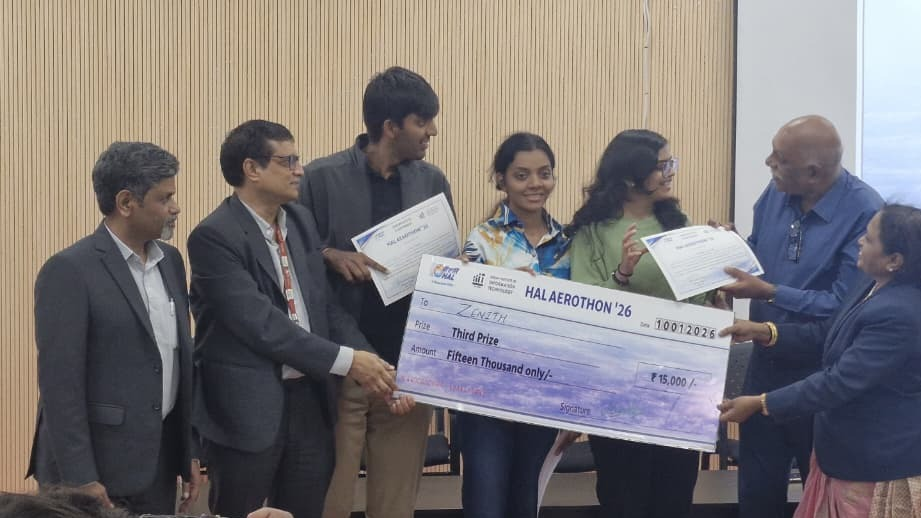
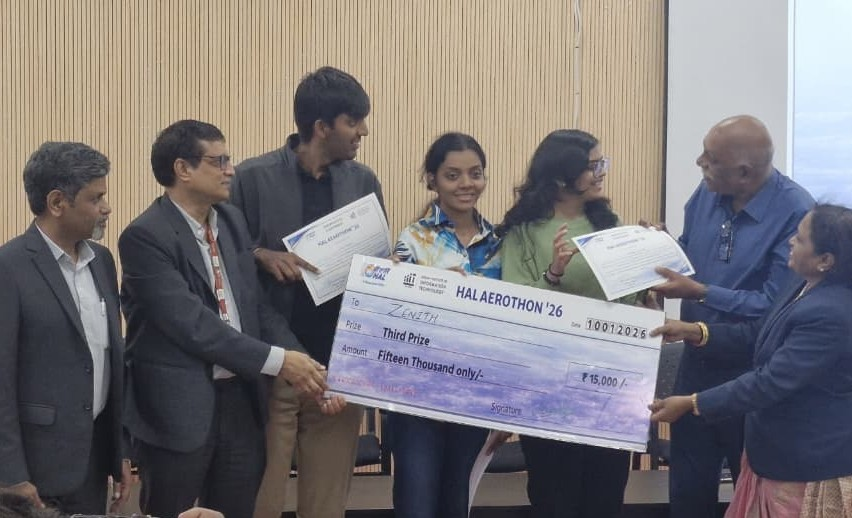
Use the recropped ceremony photo, and plain hyphens throughout the README
Point the README at docs/images/getting.jpeg, which is cropped tighter on the
handover: the cheque reads clearly and the distracting bottom edge is gone.
win-ceremony.jpg stays in the repo as a source image but is no longer used.

Replace every em and en dash with a plain hyphen - 29 em dashes and 3 en
dashes. Spaced forms became " - " so the prose does not run together, and
ranges like "9-10 January" now use a hyphen. Verified zero remaining.

diff --git a/README.md b/README.md
@@ -4,15 +4,15 @@
 
 **From Manual Inspection to AI Inspector**
 
-Computer-vision inspection for aircraft surfaces — measure a part in millimetres
+Computer-vision inspection for aircraft surfaces - measure a part in millimetres
 from a single camera, and find damage on it.
 
-🥉 **Third Prize — HAL AEROTHON '26**
+🥉 **Third Prize - HAL AEROTHON '26**
 National-Level Aerospace Innovation Hackathon
-Hindustan Aeronautics Limited × IIIT Dharwad · 9–10 January 2026
+Hindustan Aeronautics Limited × IIIT Dharwad · 9-10 January 2026
 
 <img src="docs/images/win-team.jpg" alt="Team Zenith with the Third Prize cheque at IIIT Dharwad" width="330">
-<img src="docs/images/win-ceremony.jpg" alt="Third Prize being presented at HAL AEROTHON '26" width="430">
+<img src="docs/images/getting.jpeg" alt="Third Prize being presented at HAL AEROTHON '26" width="430">
 
 </div>
 
@@ -20,7 +20,7 @@ Hindustan Aeronautics Limited × IIIT Dharwad · 9–10 January 2026
 
 ## What this is
 
-Point a camera at an aircraft panel with a **printed ArUco marker** beside it —
+Point a camera at an aircraft panel with a **printed ArUco marker** beside it -
 a square black-and-white pattern, like a QR code, whose real-world size you
 already know. In the frame below the marker is 47 mm wide and occupies about
 172 pixels, so the software derives a scale of 0.2672 millimetres per pixel and
@@ -30,9 +30,9 @@ On top of that scale sit two independent damage detectors, which answer
 different questions:
 
 - A **supervised** detector, trained on labelled aircraft damage, that names
-  what it finds — crack, dent, missing head, paint-off, scratch.
+  what it finds - crack, dent, missing head, paint-off, scratch.
 - An **unsupervised** autoencoder, trained only on undamaged skin, that flags
-  anything unlike normal surface — including damage nobody ever labelled.
+  anything unlike normal surface - including damage nobody ever labelled.
 
 Built in 24 hours at HAL AEROTHON '26 by Team Zenith, and developed since.
 
@@ -41,7 +41,7 @@ Built in 24 hours at HAL AEROTHON '26 by Team Zenith, and developed since.
 *The live application, uncropped. The printed ArUco marker sets the scale at
 0.2672 mm/px against a 47 mm reference, the gear is measured at 51.1 x 32.4 mm
 without contact, and the damage detector overlays its findings on the same
-frame. Detector class indices are shown raw here — see [Results](#results) for
+frame. Detector class indices are shown raw here - see [Results](#results) for
 why those labels are not yet trustworthy.*
 
 ---
@@ -55,12 +55,12 @@ with the commands in [Running](#running).
 |---|---|---|
 | ArUco calibration (px → mm) | **Working** | 0.14% error against a synthetic ground-truth marker |
 | Standalone measurement app | **Working** | Real-time overlay; needs a webcam and a printed marker |
-| Faster R-CNN damage detector | **Working** | Real trained weights; localises well, class labels are unreliable — see [Results](#results) |
+| Faster R-CNN damage detector | **Working** | Real trained weights; localises well, class labels are unreliable - see [Results](#results) |
 | Anomaly autoencoder + heatmap | **Working** | Unsupervised; defect regions score 1.7× clean skin |
-| Integrated pipeline | **Working** | ~1.8–2.0 s per 640×640 frame, CPU-only |
+| Integrated pipeline | **Working** | ~1.8-2.0 s per 640×640 frame, CPU-only |
 | HTTP API | **Working** | 5 endpoints, `backend/app.py` |
 | Dimension measurement | **Working** | Polarity-aware thresholding: 0.3% / 0.6% error on both dark-on-light and bright-on-dark |
-| BLIP captioning | **Working** | Needs ~2 GB free RAM; skips itself cleanly below that. Captions are generic — the model is not fine-tuned on damage |
+| BLIP captioning | **Working** | Needs ~2 GB free RAM; skips itself cleanly below that. Captions are generic - the model is not fine-tuned on damage |
 | VGG16 classifier | **Legacy, off by default** | No trained Keras checkpoint exists anywhere in the project |
 | YOLOv8 | **Off by default** | Ships stock COCO weights, which have no damage classes |
 
@@ -104,10 +104,10 @@ are approximate until you substitute a real calibration for your camera.
 ### Supervised detector
 
 Faster R-CNN ResNet50-FPN, 8-class head, trained for 23 epochs on two
-concatenated Roboflow exports — 5,672 images, 6,219 boxes.
+concatenated Roboflow exports - 5,672 images, 6,219 boxes.
 
 **Read this before trusting its labels.** The checkpoint records `f1 = 0.642`,
-but that figure was computed *class-agnostically* — the training script matched
+but that figure was computed *class-agnostically* - the training script matched
 boxes by IoU and never compared predicted labels to ground-truth labels.
 Re-running that same evaluation code against the saved weights does not
 reproduce it. Two further issues are real and worth stating:
@@ -115,8 +115,8 @@ reproduce it. Two further issues are real and worth stating:
 - **Class 1 is a collision.** The two source datasets were concatenated without
   remapping category IDs, so class 1 mixes one dataset's generic "defect" with
   the other's "crack". It is reported as `crack_or_defect` for that reason.
-- **Classes 6 and 7 were never trained** — no annotation in either dataset
-  carries those IDs — yet they still fire, sometimes above 0.9 confidence. They
+- **Classes 6 and 7 were never trained** - no annotation in either dataset
+  carries those IDs - yet they still fire, sometimes above 0.9 confidence. They
   are labelled `untrained_6` / `untrained_7` and flagged in the output.
 
 In practice it is a strong *region proposer* on aircraft skin and a weak
@@ -126,14 +126,14 @@ In practice it is a strong *region proposer* on aircraft skin and a weak
 `backend/training/train_detector.py` maps every dataset into one shared 7-class
 space so the generic "defect" stays separate from "crack", sizes the head from
 that space so no class goes untrained, scores class-aware metrics, and saves
-`class_names` into the checkpoint. Verified against the real annotations —
+`class_names` into the checkpoint. Verified against the real annotations -
 defect 1448, crack 996, dent 1346, missing-head 990, paint-off 789,
 scratch 222, no collision. Only the training run remains, and it needs a GPU;
 until then the checkpoint above is what ships.
 
 ### Unsupervised anomaly detection
 
-No dataset here has a "healthy" class — every image is of damage. So clean
+No dataset here has a "healthy" class - every image is of damage. So clean
 training data is **harvested**: defect boxes cover only ~8.4% of each labelled
 image, and the training script keeps only patches overlapping no defect box
 (plus a 16 px safety margin, because labels are drawn tight and cracks run past
@@ -153,7 +153,7 @@ against.
 
 ![Anomaly heatmap: input, reconstruction-error heatmap, and detected regions](docs/images/anomaly-heatmap.png)
 
-*Left: input. Middle: per-pixel reconstruction error — the crack is the hot red
+*Left: input. Middle: per-pixel reconstruction error - the crack is the hot red
 line. Right: green is the human label, magenta is what the autoencoder found
 without ever being shown a defect.*
 
@@ -163,7 +163,7 @@ localiser.
 
 ### Throughput
 
-~1.8–2.0 s per 640×640 frame (≈0.5 FPS) with detection and dimensioning
+~1.8-2.0 s per 640×640 frame (≈0.5 FPS) with detection and dimensioning
 enabled, on a CPU-only laptop. There is no GPU measurement in this repository.
 
 ---
@@ -181,7 +181,7 @@ venv\Scripts\activate           # Windows
 pip install -r requirements.txt
 ```
 
-`opencv-contrib-python` is required — `cv2.aruco` is not in the base
+`opencv-contrib-python` is required - `cv2.aruco` is not in the base
 `opencv-python` package.
 
 ### Windows console encoding
@@ -191,7 +191,7 @@ set PYTHONIOENCODING=utf-8      # without it, console output can die on encoding
 ```
 
 Optionally, `set INSPECT_AR_NO_BLIP=1` skips captioning entirely. It is not
-required — BLIP checks available memory and stands itself down when there is
+required - BLIP checks available memory and stands itself down when there is
 too little, rather than crashing.
 
 ### Model weights
@@ -270,7 +270,7 @@ curl -F "file=@panel.jpg" -F "heatmap=1" http://127.0.0.1:5000/api/anomaly
 ```
 
 The server binds to loopback only. Set `INSPECT_AR_HOST=0.0.0.0` to expose it,
-and do not combine that with `INSPECT_AR_DEBUG=1` — the Werkzeug debugger
+and do not combine that with `INSPECT_AR_DEBUG=1` - the Werkzeug debugger
 executes arbitrary code from the browser.
 
 ### Training the autoencoder
@@ -308,23 +308,23 @@ line references in [docs/KNOWN_ISSUES.md](docs/KNOWN_ISSUES.md).
       shipped checkpoint (the collision fix and class-aware metric are written
       and tested; only the training run remains)
 - [ ] Fine-tune BLIP on damage descriptions so captions are about the defect
-- [ ] OCR for part traceability — read serial numbers and stencilled IDs so
+- [ ] OCR for part traceability - read serial numbers and stencilled IDs so
       every detection is logged against the component it belongs to
 - [ ] UAV-mounted capture
-- [ ] Explore non-destructive testing modalities for subsurface inspection —
+- [ ] Explore non-destructive testing modalities for subsurface inspection -
       ultrasonic, eddy-current, thermography, borescope
 
 ---
 
 ## Team
 
-**Team Zenith** — KJ Somaiya College of Engineering
+**Team Zenith** - KJ Somaiya College of Engineering
 
 | Member | GitHub |
 |---|---|
 | Yashasvi Gupta | [@Yashvi2874](https://github.com/Yashvi2874) |
 | Aastha Shah | [@aasthans-2508](https://github.com/aasthans-2508) |
-| Sai Parcha | — |
+| Sai Parcha | - |
 
 Mentors: **Dr. Shailesh Nikam** and **Mr. Kaustubh Kulkarni**, for guidance on
 system architecture, backend structuring, ArUco integration and model
@@ -336,15 +336,15 @@ Thanks to **HAL** and **IIIT Dharwad** for the platform.
 
 ## Acknowledgements
 
-- **YOLOv8** — [Ultralytics](https://github.com/ultralytics/ultralytics).
+- **YOLOv8** - [Ultralytics](https://github.com/ultralytics/ultralytics).
   Licensed **AGPL-3.0**, which is more restrictive than this project's MIT
   licence; if you redistribute a work that imports it, that licence governs.
-- **Faster R-CNN, ResNet50-FPN** — [torchvision](https://github.com/pytorch/vision)
-- **BLIP** — [Salesforce Research](https://github.com/salesforce/BLIP)
-- **ArUco** — [OpenCV](https://docs.opencv.org/)
-- **Damage datasets** — Roboflow Universe aircraft-skin-defect exports,
+- **Faster R-CNN, ResNet50-FPN** - [torchvision](https://github.com/pytorch/vision)
+- **BLIP** - [Salesforce Research](https://github.com/salesforce/BLIP)
+- **ArUco** - [OpenCV](https://docs.opencv.org/)
+- **Damage datasets** - Roboflow Universe aircraft-skin-defect exports,
   published under **CC BY 4.0**, which requires attribution.
-- **Training notebooks** — the VGG16 and BLIP notebooks this project's early
+- **Training notebooks** - the VGG16 and BLIP notebooks this project's early
   wrappers were derived from originate as **IBM Skills Network** guided-lab
   material, obtained via
   [asitdave/Aircraft-Defect-Detection-and-Automated-Image-Captioning](https://github.com/asitdave/Aircraft-Defect-Detection-and-Automated-Image-Captioning).
@@ -356,7 +356,7 @@ Thanks to **HAL** and **IIIT Dharwad** for the platform.
 
 ## License
 
-**MIT** — see [LICENSE](LICENSE). This covers the original code of this project
+**MIT** - see [LICENSE](LICENSE). This covers the original code of this project
 (`backend/` and `docs/`).
 
 It does **not** cover third-party components, which carry their own terms:
